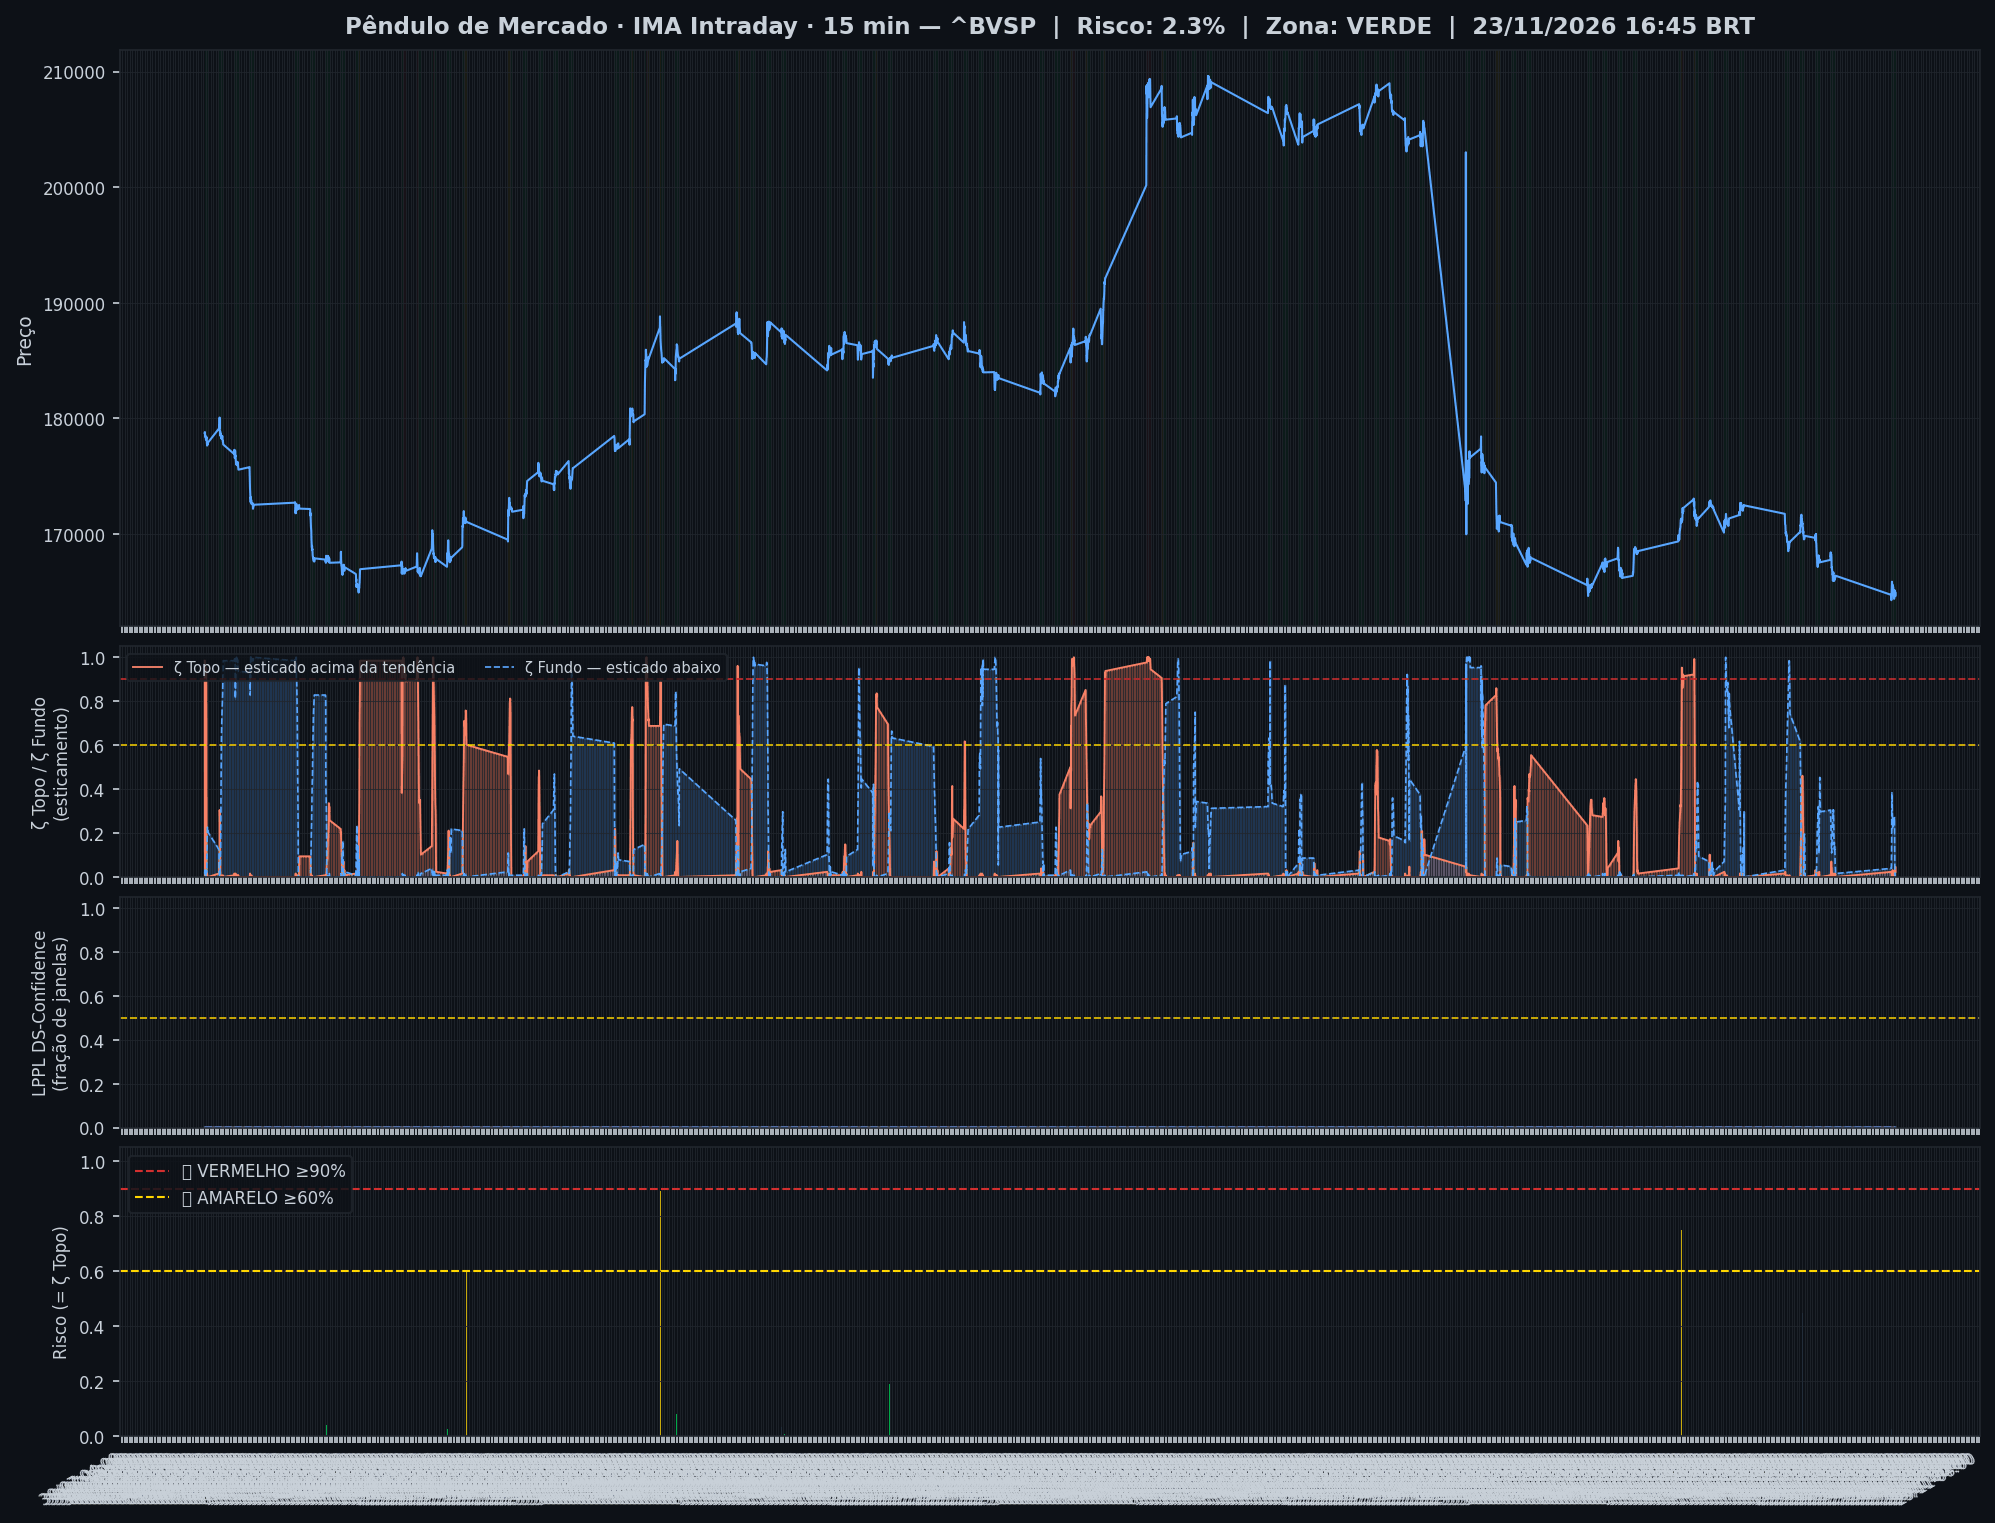
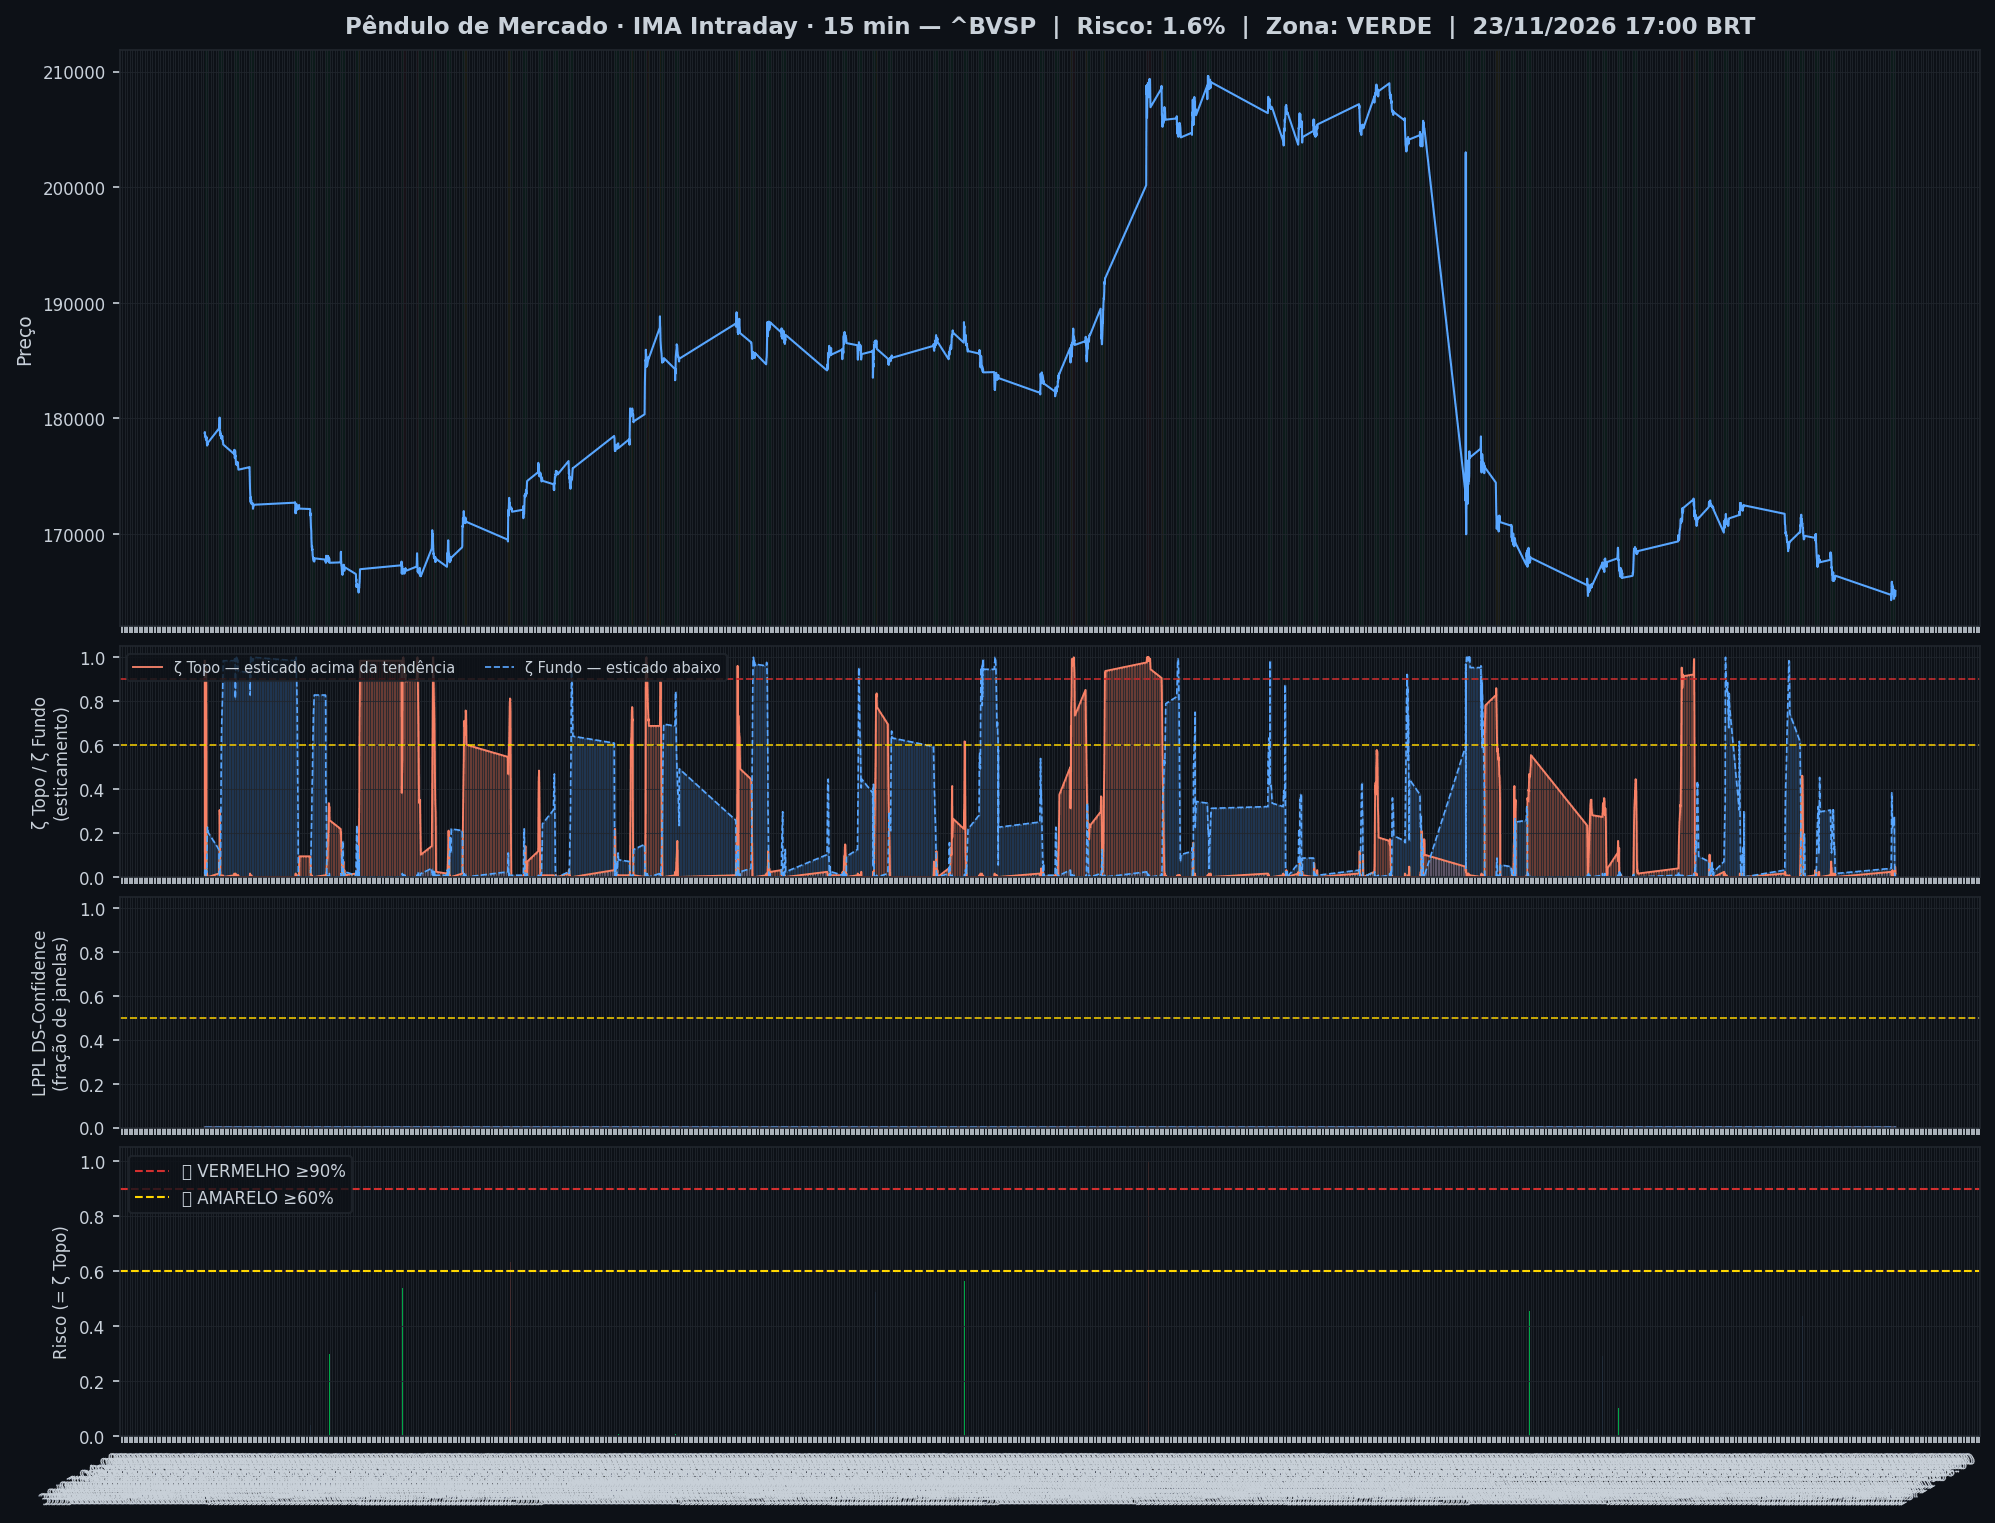
🤖 Auto: Sinal 23/11/2026 17:15

diff --git a/content/intraday/2026-11-23.md b/content/intraday/2026-11-23.md
@@ -1,13 +1,13 @@
 ---
-title: "🟢 Intraday 23/11/2026 16:45 BRT — VERDE"
+title: "🟢 Intraday 23/11/2026 17:00 BRT — VERDE"
 date: 2026-11-23
 tags: [intraday]
 ---
 
-> [!success] Onde o mercado está agora (23/11 16:45, candles de 15 min): **🟢 Calmo**
+> [!success] Onde o mercado está agora (23/11 17:00, candles de 15 min): **🟢 Calmo**
 > `Pânico ◀──────────●──────────▶ Euforia`
 >
-> **O Ibovespa cai 1,60% agora, aos 164.856 pontos.** O preço está dentro da sua faixa normal, sem excesso para cima nem para baixo.
+> **O Ibovespa cai 1,48% agora, aos 165.058 pontos.** O preço está dentro da sua faixa normal, sem excesso para cima nem para baixo.
 > No gráfico diário: 🌱 Fundo se desfazendo.
 >
 > *Leitura educacional baseada em 26 anos de dados. Não é recomendação de investimento.*
@@ -20,7 +20,7 @@ tags: [intraday]
 > | 📍 **Sinais** | hoje: nenhum sinal | [abrir](sinais-topo-fundo/) |
 > | 🧪 **Placar ao vivo** | 1 operação(ões), 0 com lucro, soma -0,8% | [abrir](operacoes/) |
 
-> [!success] IMA Intraday · 15 min (23/11 16:45): 🟢 **VERDE** — Risco 2% · ▼ -2 p.p. vs leitura anterior
+> [!success] IMA Intraday · 15 min (23/11 17:00): 🟢 **VERDE** — Risco 2% · ▼ -1 p.p. vs leitura anterior
 > `░░░░░░░░░░░░░░░░░░░░`
 > Preço na faixa normal em torno da tendência.
 
@@ -32,13 +32,13 @@ tags: [intraday]
 >
 > *Leitura educacional baseada em 26 anos de dados, não recomendação. [Como usar](../metodologia/crise#3-como-usar-na-prática).*
 
-| Indicador — IMA Intraday · 15 min (23/11 16:45) | Valor |
+| Indicador — IMA Intraday · 15 min (23/11 17:00) | Valor |
 |---|---|
 | 🔴 ζ Topo — preço esticado acima da tendência | **2%** |
-| 🔵 ζ Fundo — preço esticado abaixo da tendência | 0% |
+| 🔵 ζ Fundo — preço esticado abaixo da tendência | 2% |
 | 🫧 LPPL bolha — alta super-exponencial (risco de crash) | 0% |
 | 🫧 LPPL antibolha — queda super-exponencial (risco de repique) | 0% |
-| 📊 Ibovespa | 164.856 pts |
+| 📊 Ibovespa | 165.058 pts |
 
 ![Gráfico do sinal](../graficos/sinal_intraday.png)
 
@@ -46,6 +46,7 @@ tags: [intraday]
 
 | Data | Zona | Evento | Risco | ζ Topo | ζ Fundo | LPPL |
 |---|---|---|---|---|---|---|
+| 2026-11-23 17:00 | 🟢 VERDE |  | **2%** | 2% | 2% | 0% |
 | 2026-11-23 16:45 | 🟢 VERDE |  | **2%** | 2% | 0% | 0% |
 | 2026-11-23 16:30 | 🟢 VERDE |  | **4%** | 4% | 0% | 0% |
 | 2026-11-23 16:15 | 🟢 VERDE |  | **5%** | 5% | 0% | 0% |
@@ -75,22 +76,21 @@ tags: [intraday]
 | 2026-11-23 10:15 | 🟢 VERDE |  | **2%** | 2% | 9% | 0% |
 | 2026-11-23 10:00 | 🟢 VERDE |  | **2%** | 2% | 4% | 0% |
 | 2026-11-19 18:00 | 🟢 VERDE |  | **0%** | 0% | 2% | 0% |
-| 2026-11-19 17:45 | 🟢 VERDE |  | **0%** | 0% | 4% | 0% |
 
 <small>Destaques: 🟡 ≥ 60% · 🔴 ≥ 90% (Risco e ζ Topo) · 🔵 ≥ 60% · 🔪 ≥ 90% (ζ Fundo) · 🫧 ≥ 30% · 🫧🔴 ≥ 50% (LPPL)</small>
 
 ## Monitor Multi-Ativo
 
-**0% dos ativos em tensão** (0🔴 0🟡) · **1 com ζ Fundo alto** — quanto mais ativos disparam juntos, mais confiável o sinal.
+**0% dos ativos em tensão** (0🔴 0🟡) · **2 com ζ Fundo alto** — quanto mais ativos disparam juntos, mais confiável o sinal.
 
 > [!warning] Em destaque no multi-ativo
-> 🔵 **COPEL** ζ Fundo 62%
+> 🔵 **COPEL** ζ Fundo 62% · 🔵 **USD/BRL** ζ Fundo 61%
 
 | Zona | Ativo | Setor | ζ Topo | ζ Fundo |
 |---|---|---|---|---|
 | 🟢 | **COPEL** | Energia | 0.0% | 🔵 **61.7%** |
+| 🟢 | **USD/BRL** | Câmbio | 0.0% | 🔵 **60.9%** |
 | 🟢 | **WEG** | Industrial | 0.0% | 59.4% |
-| 🟢 | **USD/BRL** | Câmbio | 0.0% | 43.8% |
 | 🟢 | **EQUATORIAL** | Energia | 0.0% | 30.5% |
 | 🟢 | **GERDAU** | Siderurgia | 0.8% | 24.2% |
 | 🟢 | **VALE** | Mineração | 22.7% | 0.0% |
@@ -120,7 +120,7 @@ tags: [intraday]
 
 ![Monitor multi-ativo](../graficos/multi_intraday.png)
 
-*Página atualizada em 23/11/2026 17:00 BRT (leitura da barra de 2026-11-23 16:45 BRT).*
+*Página atualizada em 23/11/2026 17:15 BRT (leitura da barra de 2026-11-23 17:00 BRT).*
 
 > [!warning] O que este indicador não faz
 > Medido em 5 anos de Ibovespa, o ζ **não antecipa** topos nem fundos: a capacidade de separar o que sobe do que cai ficou em 0,49–0,52, e 0,50 é moeda jogada ao ar. Ele descreve o estado de agora; não é aviso do que vem. As zonas verde/amarelo/vermelho continuam na página como descrição desse estado — **não as use como sinal de entrada ou saída**.

diff --git a/content/index.md b/content/index.md
@@ -7,12 +7,12 @@ tags: [home]
 
 **As ondas do mercado, explicadas.** Leitura do Ibovespa com estatística de 26 anos, baseada no trabalho de pesquisadores e traders reconhecidos e adaptada por Jarbas Daniel da Costa.
 
-*Última atualização: 23/11/2026 17:00 BRT · Intraday 15min*
+*Última atualização: 23/11/2026 17:15 BRT · Intraday 15min*
 
-> [!success] Onde o mercado está agora (23/11 16:45, candles de 15 min): **🟢 Calmo**
+> [!success] Onde o mercado está agora (23/11 17:00, candles de 15 min): **🟢 Calmo**
 > `Pânico ◀──────────●──────────▶ Euforia`
 >
-> **O Ibovespa cai 1,60% agora, aos 164.856 pontos.** O preço está dentro da sua faixa normal, sem excesso para cima nem para baixo.
+> **O Ibovespa cai 1,48% agora, aos 165.058 pontos.** O preço está dentro da sua faixa normal, sem excesso para cima nem para baixo.
 > No gráfico diário: 🌱 Fundo se desfazendo.
 >
 > *Leitura educacional baseada em 26 anos de dados. Não é recomendação de investimento.*
@@ -50,18 +50,18 @@ tags: [home]
 > *Leitura educacional baseada em 26 anos de dados, não recomendação. [Como usar](metodologia/crise#3-como-usar-na-prática).*
 
 > [!info]- 🌊 Detalhes do Sinal IMA (indicadores e últimos 7 pregões)
-> > [!success] IMA Intraday · 15 min (23/11 16:45): 🟢 **VERDE** — Risco 2% · ▼ -2 p.p. vs leitura anterior
+> > [!success] IMA Intraday · 15 min (23/11 17:00): 🟢 **VERDE** — Risco 2% · ▼ -1 p.p. vs leitura anterior
 > > `░░░░░░░░░░░░░░░░░░░░`
 > > Preço na faixa normal em torno da tendência.
 >
 >
-> | Indicador — IMA Intraday · 15 min (23/11 16:45) | Valor |
+> | Indicador — IMA Intraday · 15 min (23/11 17:00) | Valor |
 > |---|---|
 > | 🔴 ζ Topo — preço esticado acima da tendência | **2%** |
-> | 🔵 ζ Fundo — preço esticado abaixo da tendência | 0% |
+> | 🔵 ζ Fundo — preço esticado abaixo da tendência | 2% |
 > | 🫧 LPPL bolha — alta super-exponencial (risco de crash) | 0% |
 > | 🫧 LPPL antibolha — queda super-exponencial (risco de repique) | 0% |
-> | 📊 Ibovespa | 164.856 pts |
+> | 📊 Ibovespa | 165.058 pts |
 >
 > **Multi-ativo:** 0% em tensão (0🔴 0🟡 de 27 ativos)
 >
@@ -69,7 +69,7 @@ tags: [home]
 >
 > | Data | Zona | Risco | ζ Topo | ζ Fundo | LPPL |
 > |---|---|---|---|---|---|
-> | [23/11/2026](intraday/2026-11-23) | 🟢 VERDE | **2%** | 2% | 0% | 0% |
+> | [23/11/2026](intraday/2026-11-23) | 🟢 VERDE | **2%** | 2% | 2% | 0% |
 > | [19/11/2026](intraday/2026-11-19) | 🟢 VERDE | **0%** | 0% | 2% | 0% |
 >
 > <small>Destaques: 🟡 ≥ 60% · 🔴 ≥ 90% (Risco e ζ Topo) · 🔵 ≥ 60% · 🔪 ≥ 90% (ζ Fundo) · 🫧 ≥ 30% · 🫧🔴 ≥ 50% (LPPL)</small>

diff --git a/content/operacoes/entradas.md b/content/operacoes/entradas.md
@@ -84,7 +84,7 @@ description: "Compra depois de um sinal de fundo: Nadaraya no diário, semáforo
 > | Diário · Semáforo N3 após ζ Fundo | 07/07/26 a 172.021 | 10/08/26 a 172.021 | **+0,0%** | stop no preço de entrada |
 > | H4 · Semáforo N2 | 12/06/26 14h a 171.134 | 15/06/26 14h a 171.134 | **+0,0%** | stop no preço de entrada |
 >
-> <small>Atualizado 20/11 19:00 · checado no pregão às 17:00. Nota: ✅ passou no teste fora da amostra (walk-forward 2008–2026) · 🧪 em teste (H4, com aviso no Telegram) ou em observação (ζ, sem aviso) · 🧪 na tabela = operação do teste ao vivo.</small>
+> <small>Atualizado 20/11 19:00 · checado no pregão às 17:15. Nota: ✅ passou no teste fora da amostra (walk-forward 2008–2026) · 🧪 em teste (H4, com aviso no Telegram) ou em observação (ζ, sem aviso) · 🧪 na tabela = operação do teste ao vivo.</small>
 >
 > *Regras: depois de um sinal de fundo, o Diário entra quando o Nadaraya vira para cima; o Semanal e o H4 entram quando um fundo do semáforo fica fixo. Stop e saída de cada regra na [metodologia](metodologia/regras-de-operacao#entradas-do-método). Nenhuma regra de venda passou no teste. Os números do histórico têm viés de escolha (overfitting); o placar ao vivo é o que vale. Leitura educacional do método, não recomendação.*
 

diff --git a/content/integridade/index.md b/content/integridade/index.md
@@ -6,7 +6,7 @@ description: "O que foi conferido, contra qual fonte e quando — medido na hora
 tags: [integridade]
 ---
 
-*Pregão conferido: **19/11/2026**, com 54 tabelas no acervo · página gerada em 23/11/2026 17:00*
+*Pregão conferido: **19/11/2026**, com 54 tabelas no acervo · página gerada em 23/11/2026 17:15*
 
 O pregão conferido é o último **fechado e arquivado inteiro**, não o de hoje: enquanto o dia corre, só algumas tabelas estão gravadas, e conferir um dia pela metade produziria alarme falso.
 
@@ -23,7 +23,7 @@ Esta página não declara que o site está correto. Ela **mede** e escreve o res
 | Tabelas com conteúdo fora da curva | nenhuma |
 | Páginas publicadas | 365 |
 | Conferências cruzadas das páginas | 71 certas, nenhuma divergência |
-| Página escrita mais recentemente | 23/11 17:00 |
+| Página escrita mais recentemente | 23/11 17:15 |
 | Páginas sem data no cabeçalho | 9 — cegas para a conferência de dado |
 
 ## 1 · Acervo do boletim diário

diff --git a/content/operacoes/ranking.md b/content/operacoes/ranking.md
@@ -56,7 +56,7 @@ description: "As regras de compra do site ordenadas pelo resultado, com treino, 
 > 
 > Operação **com 🧪** começou depois de **23/10/2026**, com as regras congeladas. É o único resultado sem nenhum ajuste ao passado, e é por ele que cada regra está sendo julgada.
 
-*Atualizado 23/11/2026 17:00 · histórico simulado com as regras congeladas em 23/10/2026 + placar ao vivo.*
+*Atualizado 23/11/2026 17:15 · histórico simulado com as regras congeladas em 23/10/2026 + placar ao vivo.*
 
 As regras de compra do site, **da que mais rendeu para a que menos rendeu**. O resultado é por operação, no índice à vista, sem custos e sem juros compostos (a soma é só a soma das operações). **Treino** = entradas de 2001 a 2013 e **teste** = 2014 em diante: uma regra só é confiável se ganhou nos dois. O único resultado sem nenhum ajuste ao histórico é o **placar ao vivo**.
 

diff --git a/content/historico.md b/content/historico.md
@@ -5,7 +5,7 @@ tags: [historico]
 
 # 📜 Histórico de leituras (v5)
 
-**2.542 leituras** desde 2026-07-03. Na página ficam os últimos 3 dias leitura por leitura e o resumo de cada dia anterior; o registro inteiro está no arquivo para baixar.
+**2.543 leituras** desde 2026-07-03. Na página ficam os últimos 3 dias leitura por leitura e o resumo de cada dia anterior; o registro inteiro está no arquivo para baixar.
 
 [**Baixar o histórico completo**](historico-completo.csv) (111 KB · abre no Excel e no LibreOffice)
 
@@ -16,6 +16,7 @@ tags: [historico]
 
 | Data | Modo | Zona | Risco | IMA | LPPL |
 |---|---|---|---|---|---|
+| 2026-11-23 17:00 | intraday | 🟢 VERDE | 2% | 2% | 0% |
 | 2026-11-23 16:45 | intraday | 🟢 VERDE | 2% | 2% | 0% |
 | 2026-11-23 16:30 | intraday | 🟢 VERDE | 4% | 4% | 0% |
 | 2026-11-23 16:00 | intraday | 🟢 VERDE | 3% | 3% | 0% |

diff --git a/content/linha-do-tempo/index.md b/content/linha-do-tempo/index.md
@@ -5,7 +5,7 @@ description: "Todo sinal, ordem, stop e aviso do Pêndulo de Mercado, do mais re
 tags: [eventos]
 ---
 
-*Atualizada 23/11/2026 17:00 BRT · a cada 15 min no pregão e às 19h.*
+*Atualizada 23/11/2026 17:15 BRT · a cada 15 min no pregão e às 19h.*
 
 Tudo o que o sistema fez ou detectou, **do mais recente para o mais antigo**: sinais de topo e fundo, ordens de compra e de venda armadas, compras, vendas, stops, avisos de 🚨 preço perto do nível e mudanças do Sinal IMA. Os **últimos 7 dias** ficam abertos; o resto, por **ano → mês → dia**.
 

diff --git a/content/avisos/index.md b/content/avisos/index.md
@@ -2,7 +2,7 @@
 title: "⚠ Avisos: o que saber antes de usar os números"
 ---
 
-*Gerado em 23/11/2026 17:00*
+*Gerado em 23/11/2026 17:15*
 
 Este site publica muitos números, e cada um tem uma limitação que importa na hora de
 decidir. As limitações estão escritas nas próprias páginas, mas quem chega direto numa
